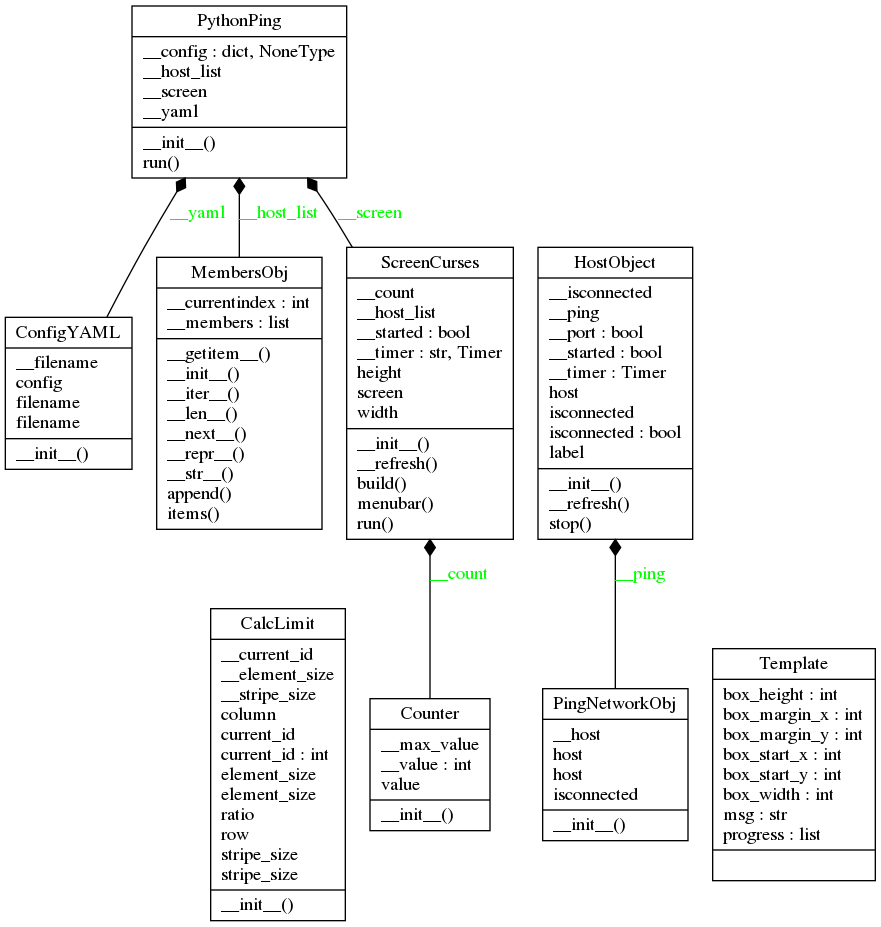
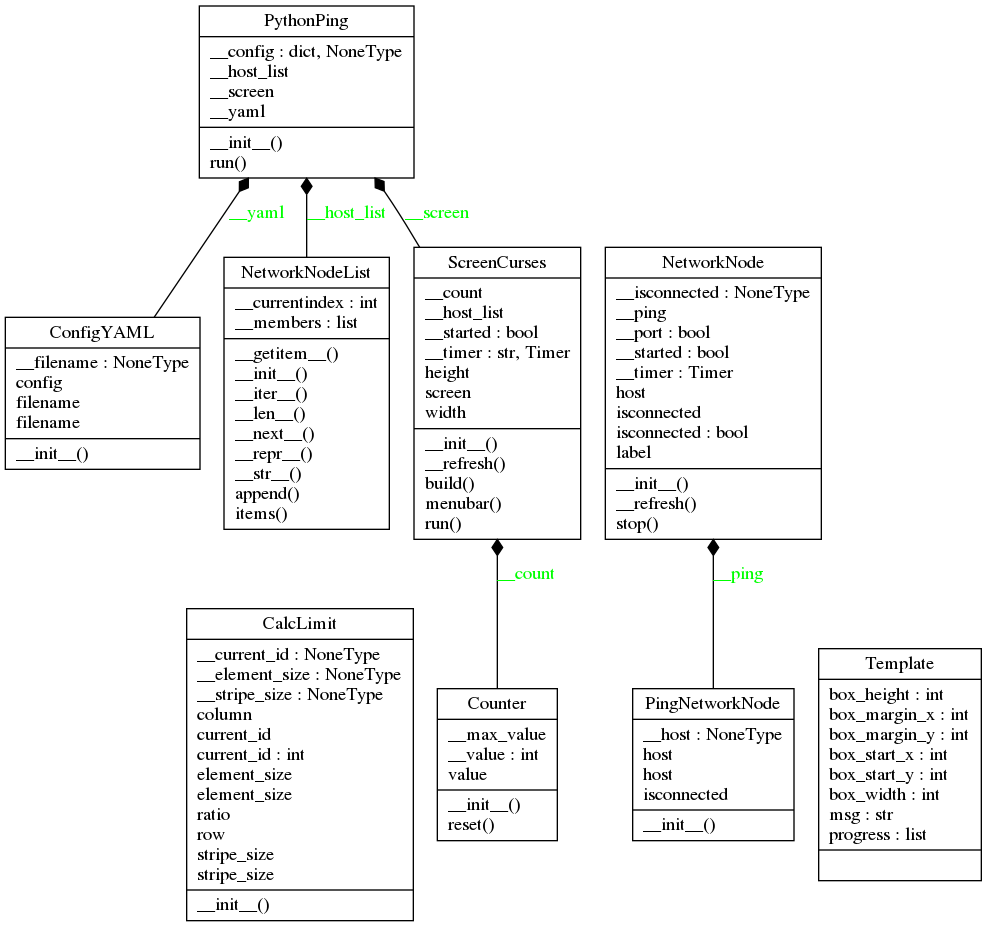
rename class and fix issues

diff --git a/pytping/pyping.py b/pytping/pyping.py
@@ -13,19 +13,19 @@
 
 from threading import Timer
 from pytping.screen import ScreenCurses
-from pytping.ping import PingNetworkObj
+from pytping.ping import PingNetworkNode
 from pytping.configyaml import ConfigYAML
-from pytping.members import MembersObj
+from pytping.members import NetworkNodeList
 
 
-class HostObject(object):
+class NetworkNode(object):
     def __init__(self, label, host, port=False):
         self.__isconnected = None
         self.__started = True
         self.isconnected = False
         self.label = label
         self.host = host
-        self.__ping = PingNetworkObj(host)
+        self.__ping = PingNetworkNode(host)
         self.__port = port
         self.__refresh()
 
@@ -52,10 +52,10 @@ class PythonPing(object):
     def __init__(self, inputfile):
         self.__yaml = ConfigYAML(inputfile)
         self.__config = self.__yaml.config
-        self.__host_list = MembersObj()
+        self.__host_list = NetworkNodeList()
         for label in self.__config:
-            self.__host_list.append(HostObject(label,
-                                               self.__config[label]['host']))
+            self.__host_list.append(NetworkNode(label,
+                                                self.__config[label]['host']))
         self.__screen = ScreenCurses(self.__host_list)
 
     def run(self):

diff --git a/pytping/__init__.py b/pytping/__init__.py
@@ -61,10 +61,10 @@ MERCHANTABILITY or FITNESS FOR A PARTICULAR PURPOSE.
 """
 
 from pytping import __about__
-from pytping.limit import *
-from pytping.counter import *
-from pytping.screen import *
-from pytping.ping import *
-from pytping.configyaml import *
-from pytping.members import *
-from pytping.pyping import *
+from pytping.limit import CalcLimit
+from pytping.counter import Counter
+from pytping.screen import ScreenCurses
+from pytping.ping import PingNetworkNode
+from pytping.configyaml import ConfigYAML
+from pytping.members import NetworkNodeList
+from pytping.pyping import NetworkNode, PythonPing

diff --git a/pytping/ping.py b/pytping/ping.py
@@ -6,10 +6,11 @@ sudo iptables -P OUTPUT ACCEPT
 myhost = PingNetworkObj('http://www.google.fr')
 print(myhost.isconnected)
 """
+
 import subprocess
 
 
-class PingNetworkObj(object):
+class PingNetworkNode(object):
     """
     This class ping a network equipement
     """

diff --git a/pytping/members.py b/pytping/members.py
@@ -20,10 +20,10 @@ for member in a  :
 """
 
 
-class MembersObj(object):
+class NetworkNodeList(object):
 
     """
-    [] to store a python object's members.
+    [] to store a python object's members (NetworkNode).
     This object will become an attribute.
     """
 

diff --git a/bin/pyt-ping.py b/bin/pyt-ping.py
@@ -52,8 +52,4 @@ def main(argv):
 
 
 if __name__ == '__main__':
-
-    import time
-    start_time = time.time()
     main(sys.argv[1:])
-    print("--- %s seconds ---" % (time.time() - start_time))

diff --git a/README.md b/README.md
@@ -102,25 +102,26 @@ zope==4.0b4
 [Counter()](#counter)<br />
 [@Property: Counter.value](#property-countervalue)<br />
 [Counter.__init__(self, max_value)](#counterinitself-max_value)<br />
-[HostObject()](#hostobject)<br />
-[@Property: HostObject.isconnected](#property-hostobjectisconnected)<br />
-[HostObject.__init__(self, label, host, port=False)](#hostobjectinitself-label-host-portfalse)<br />
-[HostObject.__refresh(self)](#hostobject__refreshself)<br />
-[HostObject.stop(self)](#hostobjectstopself)<br />
-[MembersObj()](#membersobj)<br />
-[MembersObj.__getitem__(self, index)](#membersobjgetitemself-index)<br />
-[MembersObj.__init__(self)](#membersobjinitself)<br />
-[MembersObj.__iter__(self)](#membersobjiterself)<br />
-[MembersObj.__len__(self)](#membersobjlenself)<br />
-[MembersObj.__next__(self)](#membersobjnextself)<br />
-[MembersObj.__repr__(self)](#membersobjreprself)<br />
-[MembersObj.__str__(self)](#membersobjstrself)<br />
-[MembersObj.append(self, value)](#membersobjappendself-value)<br />
-[MembersObj.items(self)](#membersobjitemsself)<br />
-[PingNetworkObj()](#pingnetworkobj)<br />
-[@Property: PingNetworkObj.host](#property-pingnetworkobjhost)<br />
-[@Property: PingNetworkObj.isconnected](#property-pingnetworkobjisconnected)<br />
-[PingNetworkObj.__init__(self, host)](#pingnetworkobjinitself-host)<br />
+[Counter.reset(self)](#counterresetself)<br />
+[NetworkNode()](#networknode)<br />
+[@Property: NetworkNode.isconnected](#property-networknodeisconnected)<br />
+[NetworkNode.__init__(self, label, host, port=False)](#networknodeinitself-label-host-portfalse)<br />
+[NetworkNode.__refresh(self)](#networknode__refreshself)<br />
+[NetworkNode.stop(self)](#networknodestopself)<br />
+[NetworkNodeList()](#networknodelist)<br />
+[NetworkNodeList.__getitem__(self, index)](#networknodelistgetitemself-index)<br />
+[NetworkNodeList.__init__(self)](#networknodelistinitself)<br />
+[NetworkNodeList.__iter__(self)](#networknodelistiterself)<br />
+[NetworkNodeList.__len__(self)](#networknodelistlenself)<br />
+[NetworkNodeList.__next__(self)](#networknodelistnextself)<br />
+[NetworkNodeList.__repr__(self)](#networknodelistreprself)<br />
+[NetworkNodeList.__str__(self)](#networknodeliststrself)<br />
+[NetworkNodeList.append(self, value)](#networknodelistappendself-value)<br />
+[NetworkNodeList.items(self)](#networknodelistitemsself)<br />
+[PingNetworkNode()](#pingnetworknode)<br />
+[@Property: PingNetworkNode.host](#property-pingnetworknodehost)<br />
+[@Property: PingNetworkNode.isconnected](#property-pingnetworknodeisconnected)<br />
+[PingNetworkNode.__init__(self, host)](#pingnetworknodeinitself-host)<br />
 [PythonPing()](#pythonping)<br />
 [PythonPing.__init__(self, inputfile)](#pythonpinginitself-inputfile)<br />
 [PythonPing.run(self)](#pythonpingrunself)<br />
@@ -130,7 +131,6 @@ zope==4.0b4
 [ScreenCurses.build(self)](#screencursesbuildself)<br />
 [ScreenCurses.menubar(self)](#screencursesmenubarself)<br />
 [ScreenCurses.run(self)](#screencursesrunself)<br />
-[Template()](#template)<br />
 
 
 #### CalcLimit()
@@ -138,7 +138,8 @@ zope==4.0b4
 class CalcLimit(object):
 ```
 > <br />
-> <b>- docstring empty -</b><br />
+> Calc element location according to element stripe size and<br />
+> stripe size.<br />
 > <br />
 ##### @Property: CalcLimit.column
 ```python
@@ -205,14 +206,14 @@ def CalcLimit.stripe_size(self, value):
 def CalcLimit.__init__(self, stripe_size, element_size):
 ```
 > <br />
-> Initialize self.  See help(type(self)) for accurate signature.<br />
+> Init default value and test<br />
 > <br />
 #### ConfigYAML()
 ```python
 class ConfigYAML(object):
 ```
 > <br />
-> <b>- docstring empty -</b><br />
+> This class manage YAML config file<br />
 > <br />
 ##### @Property: ConfigYAML.config
 ```python
@@ -246,7 +247,8 @@ def ConfigYAML.__init__(self, filename):
 class Counter(object):
 ```
 > <br />
-> <b>- docstring empty -</b><br />
+> This class count from 0 to max_value.<br />
+> In the end (max_value+1), the value becomes 0<br />
 > <br />
 ##### @Property: Counter.value
 ```python
@@ -262,148 +264,155 @@ def Counter.value(self):
 def Counter.__init__(self, max_value):
 ```
 > <br />
-> Initialize self.  See help(type(self)) for accurate signature.<br />
+> Init current value and stores max_value<br />
 > <br />
-#### HostObject()
+##### Counter.reset(self)
 ```python
-class HostObject(object):
+def Counter.reset(self):
+```
+> <br />
+> reset current value<br />
+> <br />
+#### NetworkNode()
+```python
+class NetworkNode(object):
 ```
 > <br />
 > <b>- docstring empty -</b><br />
 > <br />
-##### @Property: HostObject.isconnected
+##### @Property: NetworkNode.isconnected
 ```python
 @property
-def HostObject.isconnected(self):
+def NetworkNode.isconnected(self):
 @isconnected.setter
-def HostObject.isconnected(self, value):
+def NetworkNode.isconnected(self, value):
 
 ```
 > <br />
 > @Property<br />
 > <br />
-##### HostObject.__init__(self, label, host, port=False)
+##### NetworkNode.__init__(self, label, host, port=False)
 ```python
-def HostObject.__init__(self, label, host, port=False):
+def NetworkNode.__init__(self, label, host, port=False):
 ```
 > <br />
 > Initialize self.  See help(type(self)) for accurate signature.<br />
 > <br />
-##### HostObject.__refresh(self)
+##### NetworkNode.__refresh(self)
 ```python
-def HostObject.__refresh(self):
+def NetworkNode.__refresh(self):
 ```
 > <br />
 > <b>- docstring empty -</b><br />
 > <br />
-##### HostObject.stop(self)
+##### NetworkNode.stop(self)
 ```python
-def HostObject.stop(self):
+def NetworkNode.stop(self):
 ```
 > <br />
 > <b>- docstring empty -</b><br />
 > <br />
-#### MembersObj()
+#### NetworkNodeList()
 ```python
-class MembersObj(object):
+class NetworkNodeList(object):
 ```
 > <br />
-> Dict() to store a python object's members.<br />
+> [] to store a python object's members (NetworkNode).<br />
 > This object will become an attribute.<br />
 > <br />
-##### MembersObj.__getitem__(self, index)
+##### NetworkNodeList.__getitem__(self, index)
 ```python
-def MembersObj.__getitem__(self, index):
+def NetworkNodeList.__getitem__(self, index):
 ```
 > <br />
 > <b>- docstring empty -</b><br />
 > <br />
-##### MembersObj.__init__(self)
+##### NetworkNodeList.__init__(self)
 ```python
-def MembersObj.__init__(self):
+def NetworkNodeList.__init__(self):
 ```
 > <br />
 > Initialize self.  See help(type(self)) for accurate signature.<br />
 > <br />
-##### MembersObj.__iter__(self)
+##### NetworkNodeList.__iter__(self)
 ```python
-def MembersObj.__iter__(self):
+def NetworkNodeList.__iter__(self):
 ```
 > <br />
 > <b>- docstring empty -</b><br />
 > <br />
-##### MembersObj.__len__(self)
+##### NetworkNodeList.__len__(self)
 ```python
-def MembersObj.__len__(self):
+def NetworkNodeList.__len__(self):
 ```
 > <br />
 > <b>- docstring empty -</b><br />
 > <br />
-##### MembersObj.__next__(self)
+##### NetworkNodeList.__next__(self)
 ```python
-def MembersObj.__next__(self):
+def NetworkNodeList.__next__(self):
 ```
 > <br />
 > <b>- docstring empty -</b><br />
 > <br />
-##### MembersObj.__repr__(self)
+##### NetworkNodeList.__repr__(self)
 ```python
-def MembersObj.__repr__(self):
+def NetworkNodeList.__repr__(self):
 ```
 > <br />
 > Return repr(self).<br />
 > <br />
-##### MembersObj.__str__(self)
+##### NetworkNodeList.__str__(self)
 ```python
-def MembersObj.__str__(self):
+def NetworkNodeList.__str__(self):
 ```
 > <br />
 > Return str(self).<br />
 > <br />
-##### MembersObj.append(self, value)
+##### NetworkNodeList.append(self, value)
 ```python
-def MembersObj.append(self, value):
+def NetworkNodeList.append(self, value):
 ```
 > <br />
-> <b>- docstring empty -</b><br />
+> add a member<br />
 > <br />
-##### MembersObj.items(self)
+##### NetworkNodeList.items(self)
 ```python
-def MembersObj.items(self):
+def NetworkNodeList.items(self):
 ```
 > <br />
-> <b>- docstring empty -</b><br />
+> get members<br />
 > <br />
-#### PingNetworkObj()
+#### PingNetworkNode()
 ```python
-class PingNetworkObj(object):
+class PingNetworkNode(object):
 ```
 > <br />
-> <b>- docstring empty -</b><br />
+> This class ping a network equipement<br />
 > <br />
-##### @Property: PingNetworkObj.host
+##### @Property: PingNetworkNode.host
 ```python
 @property
-def PingNetworkObj.host(self):
+def PingNetworkNode.host(self):
 @host.setter
-def PingNetworkObj.host(self, host):
+def PingNetworkNode.host(self, host):
 
 ```
 > <br />
 > @Property<br />
 > <br />
-##### @Property: PingNetworkObj.isconnected
+##### @Property: PingNetworkNode.isconnected
 ```python
 @property
-def PingNetworkObj.isconnected(self):
+def PingNetworkNode.isconnected(self):
 
 ```
 > <br />
 > @Property<br />
 > <br />
-##### PingNetworkObj.__init__(self, host)
+##### PingNetworkNode.__init__(self, host)
 ```python
-def PingNetworkObj.__init__(self, host):
+def PingNetworkNode.__init__(self, host):
 ```
 > <br />
 > Initialize self.  See help(type(self)) for accurate signature.<br />
@@ -467,13 +476,6 @@ def ScreenCurses.menubar(self):
 ##### ScreenCurses.run(self)
 ```python
 def ScreenCurses.run(self):
-```
-> <br />
-> <b>- docstring empty -</b><br />
-> <br />
-#### Template()
-```python
-class Template:
 ```
 > <br />
 > <b>- docstring empty -</b><br />
